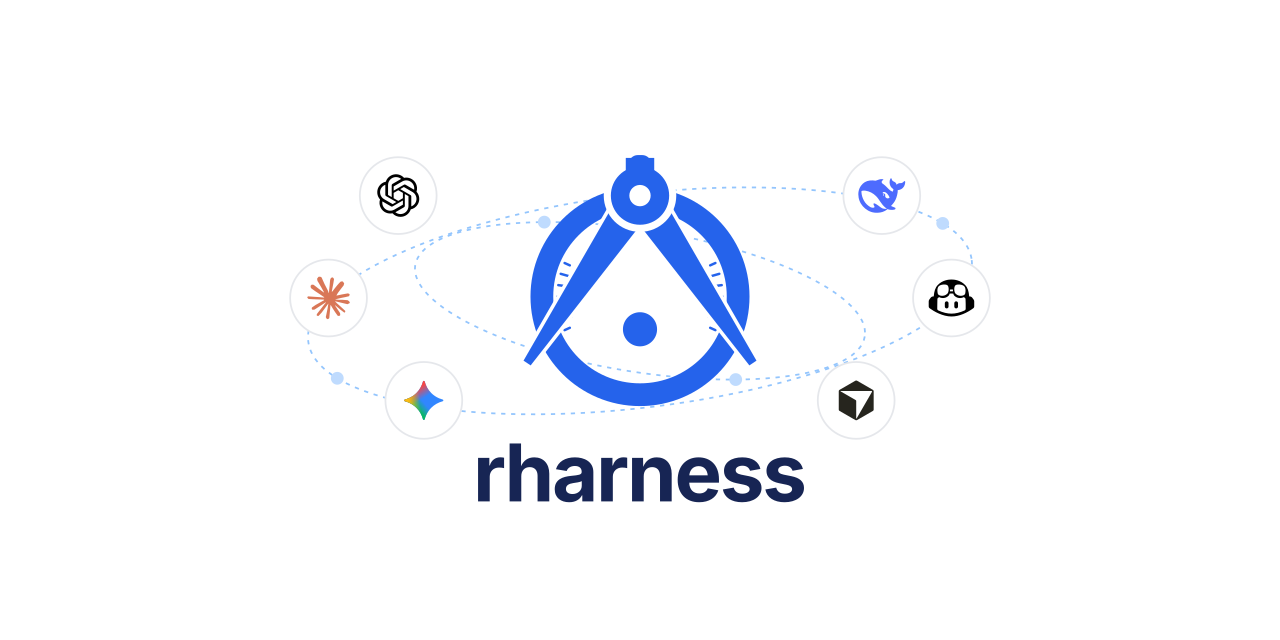
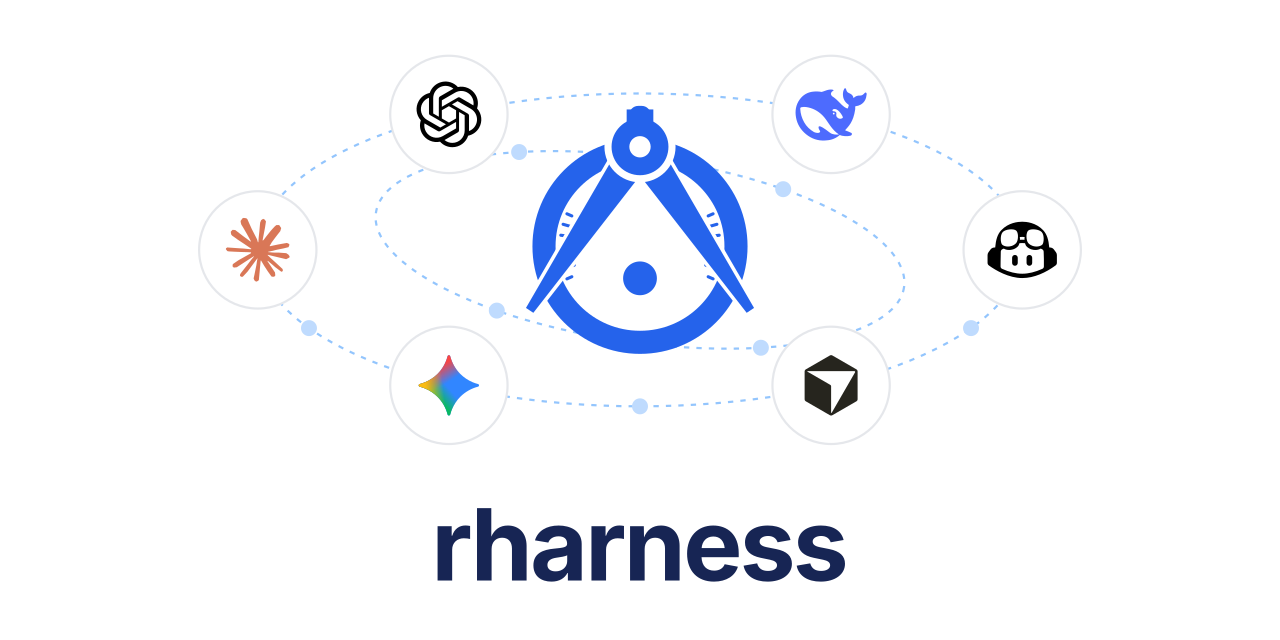
Rebalance cover: chips on the orbit, smaller mark, narrower canvas; README order title, cover, badges
Claude-Session: https://claude.ai/code/session_01C7HYVR4WhZWBgXk8wVTDwF

diff --git a/assets/cover/build.py b/assets/cover/build.py
@@ -8,8 +8,8 @@ HERE = Path(__file__).resolve().parent
 ICONS = HERE / "icons"
 OUT = HERE / "build" / "cover.svg"
 
-W, H = 1800, 600
-CX, CY = 900, 268          # logo centre
+W, H = 1440, 680
+CX, CY = 720, 258          # logo centre
 BLUE = "#2563EB"
 BLUE_DARK = "#1D4ED8"
 BLUE_SOFT = "#BFDBFE"
@@ -17,16 +17,19 @@ ORBIT = "#93C5FD"
 NAVY = "#172554"
 CHIP_STROKE = "#E5E7EB"
 
-# (file, chip centre x, chip centre y, icon size)
+# orbits: (cx, cy, rx, ry, rotation, dot angles)
+ORBITS = [(CX, CY + 4, 430, 176, 0, (90, 150, 30)),
+          (CX, CY + 4, 300, 104, 8, (60, 120, 240, 300))]
+# chips: (file, orbit index, angle on that orbit, icon size)
 CHIPS = [
-    ("logos--openai-icon.svg", 560, 126, 60),
-    ("logos--claude-icon.svg", 462, 270, 60),
-    ("lobehub--gemini-color.svg", 596, 414, 60),
-    ("logos--deepseek-icon.svg", 1240, 126, 66),
-    ("logos--github-copilot.svg", 1338, 270, 64),
-    ("logos--cursor-icon.svg", 1204, 414, 56),
+    ("logos--openai-icon.svg", 0, 240, 74),
+    ("logos--claude-icon.svg", 0, 180, 72),
+    ("lobehub--gemini-color.svg", 0, 120, 74),
+    ("logos--deepseek-icon.svg", 0, 300, 80),
+    ("logos--github-copilot.svg", 0, 0, 78),
+    ("logos--cursor-icon.svg", 0, 60, 68),
 ]
-CHIP_R = 54
+CHIP_R = 66
 
 
 def inline_icon(path: Path, x: float, y: float, size: float, idx: int) -> str:
@@ -57,9 +60,7 @@ def ellipse_point(cx, cy, rx, ry, rot_deg, t_deg):
 
 def orbits():
     parts = []
-    specs = [(CX, CY + 6, 470, 150, -7, (22, 158, 202, 338)),
-             (CX, CY + 6, 320, 100, 9, (62, 242))]
-    for cx, cy, rx, ry, rot, dots in specs:
+    for cx, cy, rx, ry, rot, dots in ORBITS:
         parts.append(f'<ellipse cx="{cx}" cy="{cy}" rx="{rx}" ry="{ry}" transform="rotate({rot} {cx} {cy})" '
                      f'fill="none" stroke="{ORBIT}" stroke-width="2.5" stroke-dasharray="6 8" '
                      f'class="no-center-check"/>')
@@ -71,10 +72,10 @@ def orbits():
 
 def logo():
     """Drafting compass inside a ring."""
-    R = 138            # ring centre radius
-    ring_w = 32
+    R = 108            # ring centre radius
+    ring_w = 26
     px, py = CX, CY - R - 4        # pivot centre, sits on top of the ring
-    leg_len = 284
+    leg_len = 222
     spread = 34                     # degrees from vertical
     parts = [
         f'<circle cx="{CX}" cy="{CY}" r="{R}" fill="none" stroke="{BLUE}" stroke-width="{ring_w}"/>',
@@ -84,7 +85,7 @@ def logo():
         for k in range(-3, 4):
             ang = math.radians(90 * (1 - side) + k * 9 + (0 if side == 1 else 0))
             ang = math.radians((0 if side == 1 else 180) + k * 8)
-            r0, r1 = R - ring_w / 2 - 6, R - ring_w / 2 - (22 if k % 2 == 0 else 14)
+            r0, r1 = R - ring_w / 2 - 5, R - ring_w / 2 - (18 if k % 2 == 0 else 11)
             x0, y0 = CX + r0 * math.cos(ang), CY + r0 * math.sin(ang)
             x1, y1 = CX + r1 * math.cos(ang), CY + r1 * math.sin(ang)
             parts.append(f'<line x1="{x0:.1f}" y1="{y0:.1f}" x2="{x1:.1f}" y2="{y1:.1f}" '
@@ -94,43 +95,46 @@ def logo():
         a = math.radians(90 + side * spread)
         tipx, tipy = px + leg_len * math.cos(a), py + leg_len * math.sin(a)
         nx, ny = -math.sin(a), math.cos(a)      # normal
-        top_w, tip_w = 26, 6
+        top_w, tip_w = 20, 5
         pts = [(px + nx * top_w, py + ny * top_w), (tipx + nx * tip_w, tipy + ny * tip_w),
                (tipx - nx * tip_w, tipy - ny * tip_w), (px - nx * top_w, py - ny * top_w)]
         d = " ".join(f"{x:.1f},{y:.1f}" for x, y in pts)
-        parts.append(f'<polygon points="{d}" fill="{BLUE}" stroke="#FFFFFF" stroke-width="10" stroke-linejoin="round"/>')
+        parts.append(f'<polygon points="{d}" fill="{BLUE}" stroke="#FFFFFF" stroke-width="8" stroke-linejoin="round"/>')
     for side in (-1, 1):
         a = math.radians(90 + side * spread)
         tipx, tipy = px + leg_len * math.cos(a), py + leg_len * math.sin(a)
         nx, ny = -math.sin(a), math.cos(a)
-        top_w, tip_w = 26, 6
+        top_w, tip_w = 20, 5
         pts = [(px + nx * top_w, py + ny * top_w), (tipx + nx * tip_w, tipy + ny * tip_w),
                (tipx - nx * tip_w, tipy - ny * tip_w), (px - nx * top_w, py - ny * top_w)]
         d = " ".join(f"{x:.1f},{y:.1f}" for x, y in pts)
         parts.append(f'<polygon points="{d}" fill="{BLUE}"/>')
     # pivot head: rounded stem + hub with a hole
-    x0, y0, w, h, r = px - 21, py - 62, 42, 66, 18
+    x0, y0, w, h, r = px - 16, py - 50, 32, 54, 14
     stem = (f"M{x0 + r},{y0} h{w - 2 * r} a{r},{r} 0 0 1 {r},{r} v{h - r} h-{w} v-{h - r} "
             f"a{r},{r} 0 0 1 {r},-{r} z")
-    parts.append(f'<path d="{stem}" fill="{BLUE}" stroke="#FFFFFF" stroke-width="10" stroke-linejoin="round"/>')
-    parts.append(f'<circle cx="{px}" cy="{py}" r="46" fill="{BLUE}" stroke="#FFFFFF" stroke-width="10"/>')
-    parts.append(f'<path d="M{px - 20},{py - 53} h40 v41 h-40 z" fill="{BLUE}"/>')  # fuse stem into hub
-    parts.append(f'<circle cx="{px}" cy="{py}" r="15" fill="#FFFFFF"/>')
+    parts.append(f'<path d="{stem}" fill="{BLUE}" stroke="#FFFFFF" stroke-width="8" stroke-linejoin="round"/>')
+    parts.append(f'<circle cx="{px}" cy="{py}" r="36" fill="{BLUE}" stroke="#FFFFFF" stroke-width="8"/>')
+    parts.append(f'<path d="M{px - 15},{py - 42} h30 v32 h-30 z" fill="{BLUE}"/>')  # fuse stem into hub
+    parts.append(f'<circle cx="{px}" cy="{py}" r="12" fill="#FFFFFF"/>')
     # centre dot
-    parts.append(f'<circle cx="{CX}" cy="{CY + 46}" r="24" fill="{BLUE}"/>')
+    parts.append(f'<circle cx="{CX}" cy="{CY + 36}" r="19" fill="{BLUE}"/>')
     return "\n".join(parts)
 
 
 def chips():
     parts = []
-    for i, (name, x, y, size) in enumerate(CHIPS):
+    for i, (name, orbit, angle, size) in enumerate(CHIPS):
+        cx, cy, rx, ry, rot, _ = ORBITS[orbit]
+        x, y = ellipse_point(cx, cy, rx, ry, rot, angle)
+        x, y = round(x, 1), round(y, 1)
         parts.append(f'<circle cx="{x}" cy="{y}" r="{CHIP_R}" fill="#FFFFFF" stroke="{CHIP_STROKE}" stroke-width="2.5"/>')
         parts.append(inline_icon(ICONS / name, x, y, size, i))
     return "\n".join(parts)
 
 
 def wordmark():
-    return (f'<text x="{CX}" y="556" text-anchor="middle" font-family="Inter" font-weight="700" '
+    return (f'<text x="{CX}" y="634" text-anchor="middle" font-family="Inter" font-weight="700" '
             f'font-size="112" letter-spacing="-3" fill="{NAVY}">rharness</text>')
 
 

diff --git a/README.md b/README.md
@@ -1,13 +1,23 @@
-<p align="center"><img src="assets/cover.svg" alt="rharness" width="100%"></p>
-
 # rharness
 
-A one-command setup for ML and NLP researchers who work with coding agents
-(Claude Code, Codex). It writes the markdown contracts and scripts that keep
-an agent-driven research workspace disciplined: a charter with a kill
-criterion per paper, an agent orientation file, daily handoffs and
-changelogs, specs before code, dated experiment reports, and a lint that
-reports drift. It is markdown and scripts, not an app.
+<p align="center"><img src="assets/cover.svg" alt="rharness" width="80%"></p>
+<p align="center"><sub>Cover made with the rharness <code>figures</code> plugin: SVG source, geometry checker, unmodified brand marks.</sub></p>
+
+<p align="center">
+  <a href="https://github.com/Vein05/rharness/actions/workflows/ci.yml"><img src="https://github.com/Vein05/rharness/actions/workflows/ci.yml/badge.svg" alt="ci"></a>
+  <a href="https://github.com/Vein05/rharness/releases"><img src="https://img.shields.io/badge/release-v0.1.0-2563EB" alt="release"></a>
+  <img src="https://img.shields.io/badge/python-3.9%2B-2563EB" alt="python 3.9+">
+  <img src="https://img.shields.io/badge/deps-none-2563EB" alt="no dependencies">
+  <img src="https://img.shields.io/badge/works%20with-Claude%20Code%20%7C%20Codex-2563EB" alt="works with Claude Code and Codex">
+  <a href="LICENSE"><img src="https://img.shields.io/badge/license-MIT-2563EB" alt="MIT"></a>
+</p>
+
+A one-command setup for ML and NLP researchers who work with coding agents.
+It writes the markdown contracts and scripts that keep an agent-driven
+research workspace disciplined: a charter with a kill criterion per paper,
+an agent orientation file, daily handoffs and changelogs, specs before code,
+dated experiment reports, and a lint that reports drift. It is markdown and
+scripts, not an app.
 
 ## Install
 
@@ -90,9 +100,10 @@ markers; everything outside is yours.
 
 ## Cover art
 
-`assets/cover/build.py` generates `assets/cover.svg` from the inlined brand marks in
-`assets/cover/icons/`; `assets/cover-social.png` is the 1280x640 GitHub social preview.
-Brand marks belong to their owners and are used unmodified.
+`assets/cover/build.py` generates `assets/cover.svg` from the inlined brand
+marks in `assets/cover/icons/` and checks it with the `figures` plugin's
+`check_svg.py`; `assets/cover-social.png` is the 1280x640 GitHub social
+preview. Brand marks belong to their owners and are used unmodified.
 
 ## Development
 
